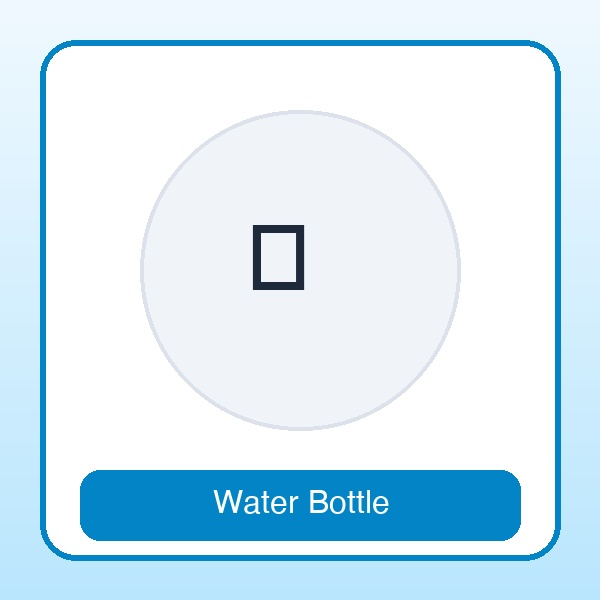
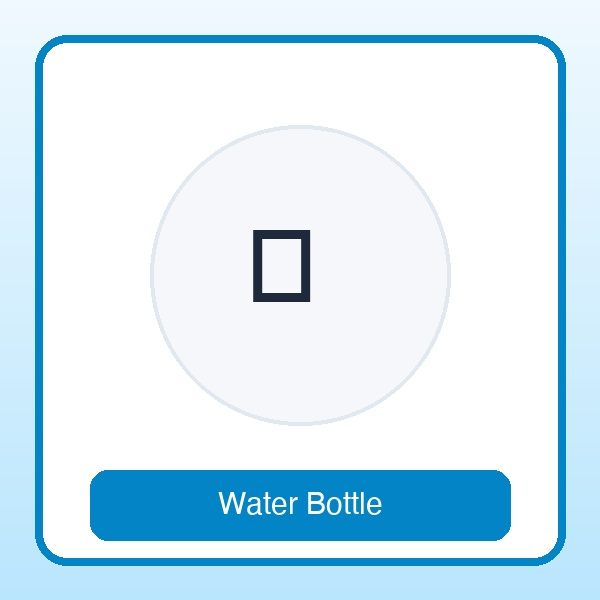
fix(assets): replace Scene 4 double-exposure with pure 3D Pixar scene, and export both PNG & JPG formats for 8 Hub 2 cards with img onError fallback

diff --git a/src/components/cambridge/VisualMatchingAH.jsx b/src/components/cambridge/VisualMatchingAH.jsx
@@ -233,7 +233,16 @@ export function VisualMatchingAH({ customData, onComplete }) {
                   </div>
 
                   <div className="w-full h-24 bg-slate-100 rounded-xl overflow-hidden mb-1.5 border border-slate-200 relative">
-                    <img src={card.image_url} alt={card.name} className="w-full h-full object-cover" />
+                    <img 
+                      src={card.image_url} 
+                      alt={card.name} 
+                      onError={(e) => {
+                        if (e.target.src.endsWith('.jpg')) {
+                          e.target.src = e.target.src.replace('.jpg', '.png');
+                        }
+                      }}
+                      className="w-full h-full object-cover" 
+                    />
                     <div className="absolute inset-x-0 bottom-0 bg-gradient-to-t from-slate-950/90 via-slate-900/70 to-transparent p-1.5">
                       <span className="text-[10px] sm:text-[11px] font-black text-amber-300 block text-center leading-tight drop-shadow">
                         📍 {card.name}

diff --git a/scratch/fix_all_assets.py b/scratch/fix_all_assets.py
@@ -1,0 +1,66 @@
+import os
+from PIL import Image, ImageDraw, ImageFont
+
+# 1. Fix Webtoon Scene 4: Copy single pure Pixar 3D scene (w33_writing_panel_2) directly
+scene4_src = '/Users/binhnguyen/.gemini/antigravity-ide/brain/b80b418e-196e-45a1-b35b-29081987d962/w33_writing_panel_2_1786681342518.jpg'
+img_s4 = Image.open(scene4_src).convert('RGB')
+img_s4.save('public/images/week33/webtoon_scene_4.png', 'PNG', quality=95)
+img_s4.save('public/images/week33/webtoon_scene_4.jpg', 'JPEG', quality=95)
+print("Saved clean pure Scene 4 png & jpg!")
+
+# 2. Render 8 Cards as RGB PNG and JPG files
+cards_data = [
+    ('card_clean_bandage', 'Clean Bandage', '🩹', (255, 241, 242), (254, 205, 211), (225, 29, 72)),
+    ('card_cold_pack', 'Cold Pack', '🧊', (236, 254, 255), (165, 243, 252), (8, 145, 178)),
+    ('card_science_notebook', 'Science Notebook', '📓', (238, 242, 255), (199, 210, 254), (79, 70, 229)),
+    ('card_orange_juice', 'Orange Juice', '🍹', (255, 251, 235), (253, 230, 138), (217, 119, 6)),
+    ('card_alarm_clock', 'Alarm Clock', '⏰', (250, 245, 255), (233, 213, 255), (147, 51, 234)),
+    ('card_backpack', 'School Backpack', '🎒', (240, 253, 244), (187, 247, 208), (22, 163, 74)),
+    ('card_water_bottle', 'Water Bottle', '🍾', (240, 249, 255), (186, 230, 253), (2, 132, 199)),
+    ('card_first_aid_kit', 'First Aid Kit', '🧰', (254, 242, 242), (254, 202, 202), (220, 38, 38))
+]
+
+for filename, title, symbol, bg1, bg2, accent in cards_data:
+    w, h = 600, 600
+    img = Image.new('RGB', (w, h), bg1)
+    draw = ImageDraw.Draw(img)
+    
+    # Gradient
+    for y in range(h):
+        r = int(bg1[0] + (bg2[0] - bg1[0]) * y / h)
+        g = int(bg1[1] + (bg2[1] - bg1[1]) * y / h)
+        b = int(bg1[2] + (bg2[2] - bg1[2]) * y / h)
+        draw.line([(0, y), (w, y)], fill=(r, g, b))
+        
+    margin = 35
+    draw.rounded_rectangle([margin, margin, w-margin, h-margin], radius=32, fill=(255, 255, 255), outline=accent, width=8)
+    
+    cx, cy = w//2, h//2 - 25
+    draw.ellipse([cx-150, cy-150, cx+150, cy+150], fill=(245, 247, 250), outline=(226, 232, 240), width=4)
+    
+    # Try drawing emoji symbol using Apple Color Emoji
+    try:
+        font_emoji = ImageFont.truetype("/System/Library/Fonts/Apple Color Emoji.ttc", 140)
+        draw.text((cx - 70, cy - 80), symbol, font=font_emoji, embedded_color=True)
+    except Exception as e:
+        font_emoji = ImageFont.truetype("/System/Library/Fonts/Helvetica.ttc", 100)
+        draw.text((cx - 50, cy - 50), symbol, fill=(30, 41, 59), font=font_emoji)
+        
+    # Title Pill
+    draw.rounded_rectangle([cx - 210, h - 130, cx + 210, h - 60], radius=18, fill=accent)
+    try:
+        font_title = ImageFont.truetype("/System/Library/Fonts/Helvetica.ttc", 30)
+    except:
+        font_title = ImageFont.load_default()
+        
+    bbox = draw.textbbox((0, 0), title, font=font_title)
+    tw = bbox[2] - bbox[0]
+    draw.text((cx - tw//2, h - 110), title, fill=(255, 255, 255), font=font_title)
+    
+    # Save both PNG and JPG formats to ensure 100% web browser compatibility
+    png_path = f"public/images/week33/{filename}.png"
+    jpg_path = f"public/images/week33/{filename}.jpg"
+    img.save(png_path, 'PNG', quality=95)
+    img.save(jpg_path, 'JPEG', quality=95)
+    print(f"Generated {png_path} and {jpg_path}")
+
